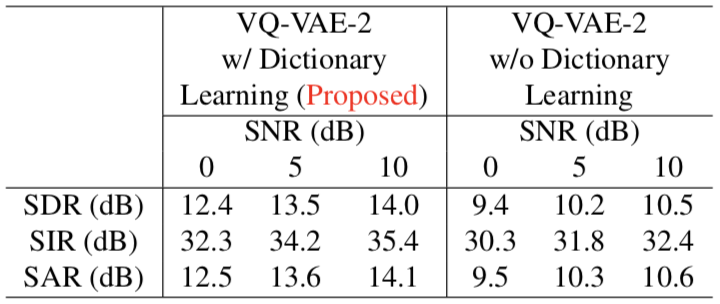
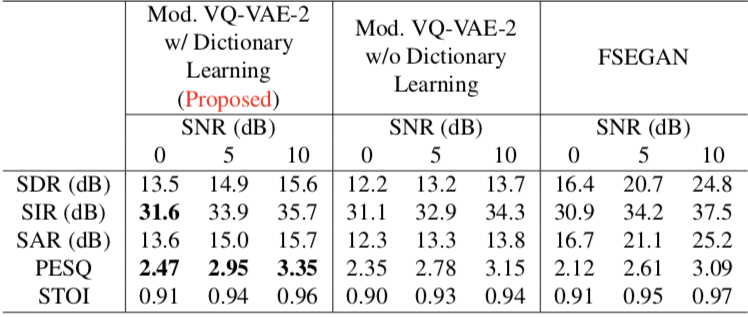
update

Changed region(s): [[0.0, 0.0, 1.0, 1.0], [0.3056, 0.4737, 0.3361, 0.5033]]

diff --git a/model.py b/model.py
@@ -77,14 +77,33 @@ class Transpose(nn.Module):
     def forward(self, x, dim=[0, 2, 1, 3]):
         return x.permute(*dim)
 
+class Filterencoder(nn.Module):
+    def __init__(self, f_dim, dim):
+        super().__init__()
+        self.block = nn.Sequential(
+            nn.Conv2d(1, dim, (f_dim, 1), (1, 1), (0, 0)),
+            nn.BatchNorm2d(dim),
+            nn.ReLU(True)
+        )
+    def forward(self, x):
+        return self.block(x)
+
+class Filterdecoder(nn.Module):
+    def __init__(self, f_dim, dim):
+        super().__init__()
+        self.block = nn.Sequential(
+            nn.ConvTranspose2d(dim, 1, (f_dim, 1), (1, 1), (0, 0))
+        )
+    def forward(self, x):
+        return self.block(x)
+
+
+# (Input + 2* pad - kernel) / stride +1 = output
 class Encoder(nn.Module):
-    def __init__(self, in_dim, f_dim, dim, stride):
+    def __init__(self, in_dim, dim, stride):
         super().__init__()
         if stride == 4:
             self.block = nn.Sequential(
-                nn.Conv2d(in_dim, dim//2, (f_dim, 1), (1, 1), (0, 0)),
-                nn.BatchNorm2d(dim//2),
-                nn.ReLU(True),
                 Transpose(),
                 nn.Conv2d(in_dim, dim//2, 4, 2, 1),
                 nn.BatchNorm2d(dim//2),
@@ -112,7 +131,7 @@ class Encoder(nn.Module):
 
 
 class Decoder(nn.Module):
-    def __init__(self, in_dim, out_dim, f_dim, dim, stride):
+    def __init__(self, in_dim, out_dim, dim, stride):
         super().__init__()
         if stride == 4:
             self.block = nn.Sequential(
@@ -126,8 +145,7 @@ class Decoder(nn.Module):
                 nn.ConvTranspose2d(dim//2, out_dim, 4, 2, 1),
                 nn.BatchNorm2d(out_dim),
                 nn.ReLU(True),
-                Transpose(),
-                nn.ConvTranspose2d(dim//2, out_dim, (f_dim, 1), (1, 1), (0, 0))
+                Transpose()
             )
         elif stride == 2:
             self.block = nn.Sequential(
@@ -144,22 +162,29 @@ class Decoder(nn.Module):
 class VQVAE2(nn.Module):
     def __init__(self, f_dim, dim, K, D):
         super(VQVAE2, self).__init__()
-        self.encoder_b = Encoder(1, f_dim, dim, stride=4)
-        self.encoder_t = Encoder(dim, f_dim, dim, stride=2)
+        self.filter_e = Filterencoder(f_dim, dim//2)
+
+        self.encoder_b = Encoder(1, dim, stride=4)
+        self.encoder_t = Encoder(dim, dim, stride=2)
 
         self.pre_quantize_conv_t = nn.Conv2d(dim, D, 1, 1, 0)
         self.quantize_t = VQEmbedding(K, D)
 
-        self.decoder_t = Decoder(D, D, f_dim, dim, stride=2)
+        self.decoder_t = Decoder(D, D, dim, stride=2)
 
         self.pre_quantize_conv_b = nn.Conv2d(D+dim, D, 1, 1, 0)
         self.quantize_b = VQEmbedding(K, D)
 
         self.upsample_t = nn.ConvTranspose2d(D, D, 4, 2, 1)
-        self.decoder = Decoder(D+D, 1, f_dim, dim, stride=4)
+        self.decoder = Decoder(D+D, 1, dim, stride=4)
+
+        self.decoder_b = Decoder(D, 1, dim, stride=4)
+
+        self.filter_d = Filterdecoder(f_dim, dim)
 
     def forward(self, x):
-        z_e_b = self.encoder_b(x)
+        x_f = self.filter_e(x)
+        z_e_b = self.encoder_b(x_f)
         z_e_t = self.encoder_t(z_e_b)
 
         z_q_t = self.pre_quantize_conv_t(z_e_t)
@@ -175,5 +200,10 @@ class VQVAE2(nn.Module):
 
         z_q_x = self.upsample_t(z_q_t)
         z_q_x = torch.cat([z_q_x, z_q_b], 1)
-        x_tilde = self.decoder(z_q_x)
+        x_b = self.decoder(z_q_x)
+
+        x_c = torch.cat([x_f, x_b], 1)
+
+        x_tilde = self.filter_d(x_c)
+
         return x_tilde, latent_loss_t+latent_loss_b

diff --git a/README.md b/README.md
@@ -32,28 +32,24 @@ bash checkpoint.sh [input_snr] [epoch]
 
 #### Results
 
-##### Loss (Pre-training of speech model)
+<!-- ##### Loss (Pre-training of speech model)
 <div align="center">
 <img src="loss/speech_model.png" width="700">
-</div>
+</div> -->
 
 ##### Modified 1-by-F filters (Pre-training of speech model)
 <div align="center">
 <img src="figs/filter.gif" width="700">
 </div>
 
-##### Loss (Main-training of enhancement model)
+<!-- ##### Loss (Main-training of enhancement model)
 <div align="center">
 <img src="loss/enhancement_model.png" width="700">
-</div>
+</div> -->
 
-##### Outputs qualitative comparison on the log/mel spectrograms of the test speaker
+##### Outputs qualitative comparison on the log spectrograms of the test speaker
 <div align="center">
-<img src="figs/result.png" width="700">
-</div>
-
-<div align="center">
-<img src="figs/result2.png" width="700">
+<img src="figs/result3.png" width="700">
 </div>
 
 ##### Quantitative comparison of the test speakers
@@ -63,21 +59,25 @@ bash checkpoint.sh [input_snr] [epoch]
 
 ##### Sound samples
 ##### male speaker (SNR 5dB)
-- [Clean](https://drive.google.com/file/d/15u8rbH9bX3wH1-lx_nEFMtgWXRSj5XfD/view?usp=sharing)
-- [Noisy](https://drive.google.com/file/d/1L4889XQtZGr9I2cJU22_SHhZ7vzObv4A/view?usp=sharing)
-- [Enhanced (Proposed)](https://drive.google.com/file/d/1Sh8uFBfuRGEaREh-WVmew9DeTgHIny_j/view?usp=sharing)
+- [Clean](https://drive.google.com/drive/folders/1GllMBAEhLWdKlmWLGSiN0raKI1YXSFlD)
+- [Noisy](https://drive.google.com/drive/folders/1GllMBAEhLWdKlmWLGSiN0raKI1YXSFlD)
+- [Enhanced (Proposed)](https://drive.google.com/drive/folders/1GllMBAEhLWdKlmWLGSiN0raKI1YXSFlD)
+- [Enhanced (FSEGAN)](https://drive.google.com/drive/folders/1GllMBAEhLWdKlmWLGSiN0raKI1YXSFlD)
 
 ##### male speaker (SNR 0dB)
-- [Clean](https://drive.google.com/file/d/1h_tewUHlJBmC0xh5nlxSE5arghCMP2LA/view?usp=sharing)
-- [Noisy](https://drive.google.com/file/d/1cQ-a97b6rJ0nuaaF1T1LLqhrJVlTQrQ-/view?usp=sharing)
-- [Enhanced (Proposed)](https://drive.google.com/file/d/1TgEEDVkYaGokG6ohEYIPWYhys-X5d8S3/view?usp=sharing)
+- [Clean](https://drive.google.com/drive/folders/1GllMBAEhLWdKlmWLGSiN0raKI1YXSFlD)
+- [Noisy](https://drive.google.com/drive/folders/1GllMBAEhLWdKlmWLGSiN0raKI1YXSFlD)
+- [Enhanced (Proposed)](https://drive.google.com/drive/folders/1GllMBAEhLWdKlmWLGSiN0raKI1YXSFlD)
+- [Enhanced (FSEGAN)](https://drive.google.com/drive/folders/1GllMBAEhLWdKlmWLGSiN0raKI1YXSFlD)
 
 ##### female speaker (SNR 5dB)
-- [Clean](https://drive.google.com/file/d/1kU0GP0SfZEdlEGQJFGSCHTsfVjD11Cec/view?usp=sharing)
-- [Noisy](https://drive.google.com/file/d/1J_ioJeN7Y5aQHyVl8TBRI11ZhWRItqEu/view?usp=sharing)
-- [Enhanced (Proposed)](https://drive.google.com/file/d/10HwbGBvVVF2FPt52t3M6IWusH8VvMdCS/view?usp=sharing)
+- [Clean](https://drive.google.com/drive/folders/1GllMBAEhLWdKlmWLGSiN0raKI1YXSFlD)
+- [Noisy](https://drive.google.com/drive/folders/1GllMBAEhLWdKlmWLGSiN0raKI1YXSFlD)
+- [Enhanced (Proposed)](https://drive.google.com/drive/folders/1GllMBAEhLWdKlmWLGSiN0raKI1YXSFlD)
+- [Enhanced (FSEGAN)](https://drive.google.com/drive/folders/1GllMBAEhLWdKlmWLGSiN0raKI1YXSFlD)
 
 ##### female speaker (SNR 0dB)
-- [Clean](https://drive.google.com/file/d/1_6MyVj8OrGKaT2L8-LinkoIhXYw15wkV/view?usp=sharing)
-- [Noisy](https://drive.google.com/file/d/1VOxBrPYpxnwMlZ7IOb0772SB1RBHfxAB/view?usp=sharing)
-- [Enhanced (Proposed)](https://drive.google.com/file/d/1NEupXMDvrgk0YoQ9FomryyxYUzawhz5w/view?usp=sharing)
+- [Clean](https://drive.google.com/drive/folders/1GllMBAEhLWdKlmWLGSiN0raKI1YXSFlD)
+- [Noisy](https://drive.google.com/drive/folders/1GllMBAEhLWdKlmWLGSiN0raKI1YXSFlD)
+- [Enhanced (Proposed)](https://drive.google.com/drive/folders/1GllMBAEhLWdKlmWLGSiN0raKI1YXSFlD)
+- [Enhanced (FSEGAN)](https://drive.google.com/drive/folders/1GllMBAEhLWdKlmWLGSiN0raKI1YXSFlD)
